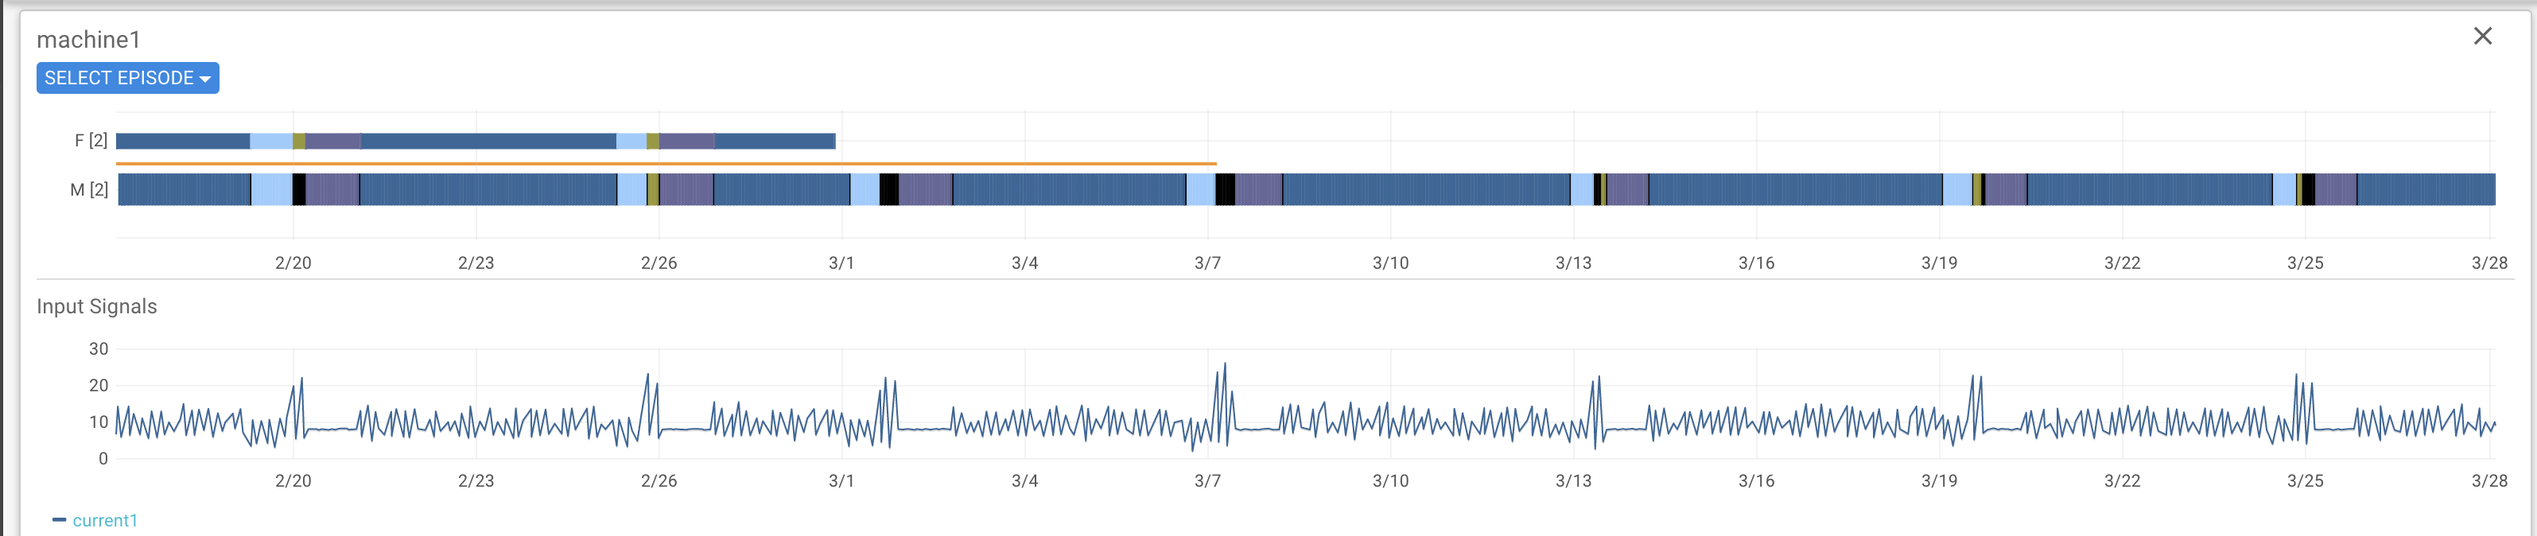
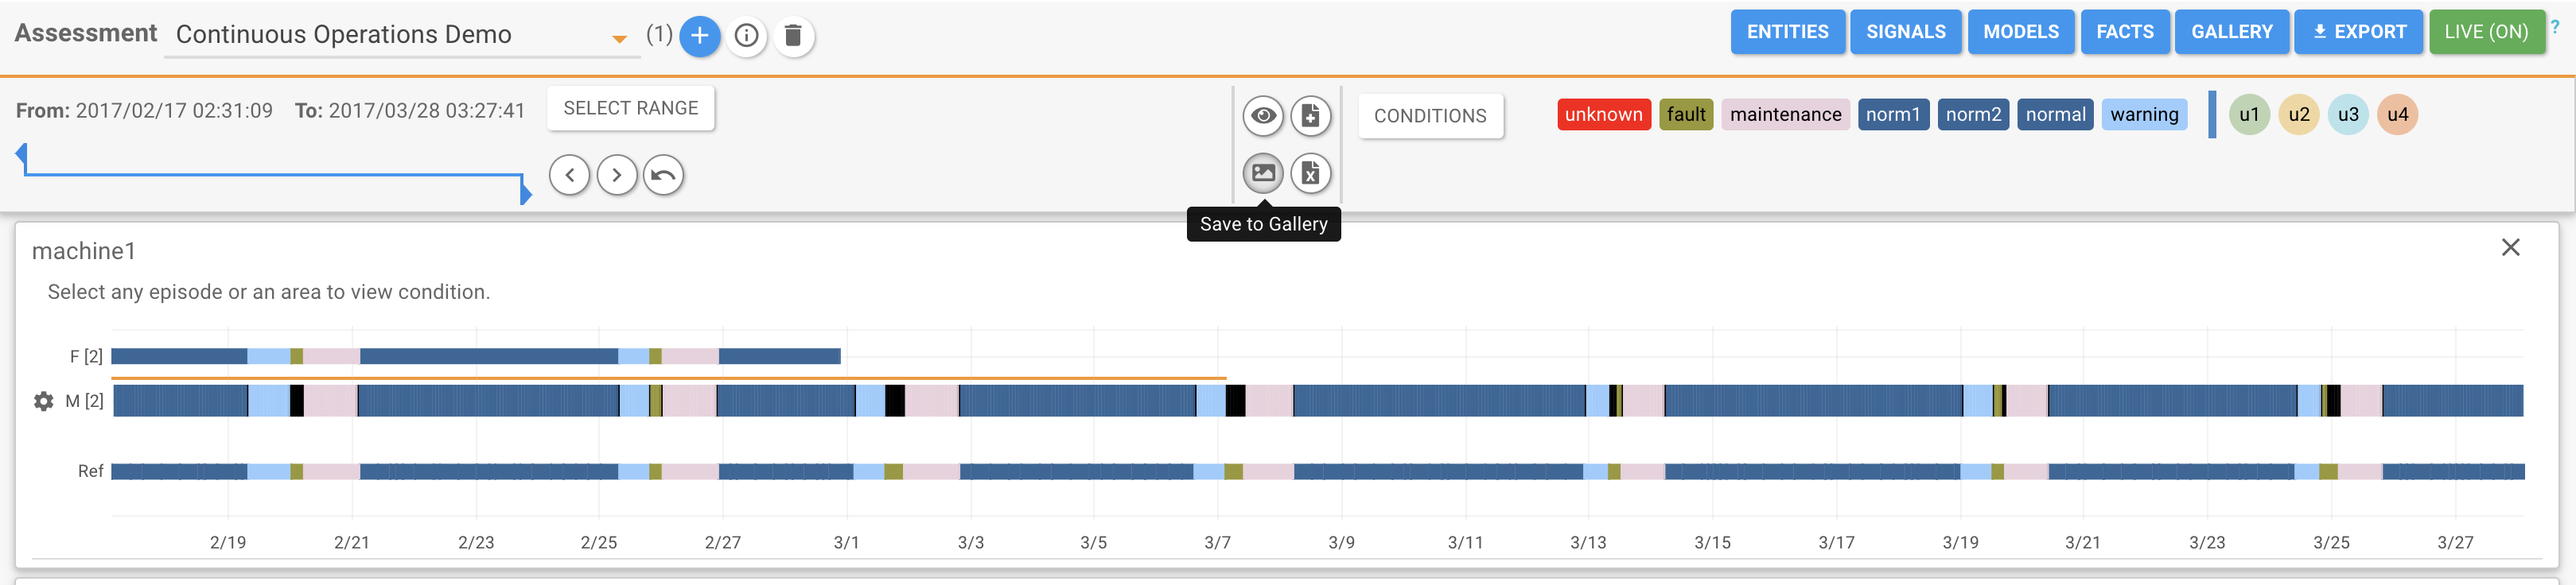
Release version 1.37.5

diff --git a/docs/using/datastreams/index.rst b/docs/using/datastreams/index.rst
@@ -35,6 +35,8 @@ Selecting the **Model** button opens the Model drawer. Models can be created and
 
 From here you can click the 'New Model' button to start Model creation.
 
+.. _modellearning:
+
 Model Learning
 ---------------
 
@@ -87,11 +89,27 @@ When set to **Minimum Generalization** the engine is restricted to what it sees 
 When set to **Maximum Generalization** the engine only looks at the general shape of the time series. It is less sensitive to temporal shift or even small number of peaks and troughs in the general pattern. With this approach, one can achieve higher TPR. However, the FPR might be high as well.
 
 As the final step, the user may decide to create an **Unsupervised**, **Semi-supervised**, or **Fully-supervised** model. This can be achieved by adding **Facts**. Facts uploaded can be filtered based on *Entities*, prior *Models*, *Keywords* associated with facts, *Conditions* and *Time range*.
+gallery
 
 .. image:: images/createmodel4.png
 
-Upon completion of facts selection, clicking the *Start* button should start the model creation process.
+Upon completion of facts selection, clicking the *NEXT* button should bring the user to the final step of the model creation which is selecting entities and time range on which to apply the model. 
+This allows a user to have the model applied to a user specified range (may include validation range outside of model learning range) immediately after model creation. A user can always go back and trigger model apply on a different time range at a later point in time. 
 
+.. image:: images/createmodel5.png
+
+At this point Falkonry has received the following guidance to start building the model:
+
+  - Learning Time Range
+  - List of Entities for Learning
+  - List of Signals for Learning
+  - List of Facts for Learning
+  - Model Configuration Settings
+  - Model Apply Time Range and Entities
+
+To start the model creation process, hit **START**.
+
+.. _factfilters:
 
 Adding Facts & Using Facts When Learning a Model
 ~~~~~~~~~~~~~~~~~~~~~~~~~~~~~~~~~~~~~~~~~~~~~~~~
@@ -112,7 +130,6 @@ Opening the facts drawer for a new Assessment should present a drawer with no av
 
 A CSV/JSON file (see :doc:`facts`) can either be selected from or simply dropped into the "Select or Drop CSV or JSON file ...". A window asking the user to select specific identifiers for Start time, End time, Batch Identifier (for Batch datastreams only), Entity, Value and Keywords (optional) should present itself before the facts can be populated within Falkonry LRS.
 
-.. _fact_filters_label:
 .. image:: images/facts2.png
 
 Once facts are available in this drawer, specific filters can be applied to narrow down the set of facts of interest. These settings can be saved as a **Filter View** by clicking on **Add new fact filter** in the **Filters** dropdown.
@@ -187,7 +204,7 @@ The timeline view consists of several cards, each associated with a particular *
 - M[n] displays the assessment output based on Model "n"
 - F[n] displays the facts used for creation of model M[n]
 - Each signal (selected for display from Signals panel) associated with the Entity
-- Fact filters created in (:ref:`fact_filters_label <Fact Filters>`)
+- Fact snapshots created using **Fact Filters**, see :ref:`factfilters`
 - Model training ranges (displayed as a red line between M[n] and F[n])
 
 .. image:: images/timeline1.png
@@ -204,6 +221,36 @@ Zooming in into this segment will resolve the clustered display of conditions as
 
 .. image:: images/timeline4.png
 
+
+
+Selecting Episodes
+-------------------
+
+Once assessment results are available on the timeline view, a user may want to select specific episodes/ segments by clicking and dragging the mouse over of the assessment output:
+  1. Zooming in to evaluate and observe specific events with more granularity
+  2. Adding facts over specifc time ranges
+  3. Deleting facts over specific time ranges
+  4. Adding episodes to the Episode Gallery for further inspection and analysis of assessment results (more on this :ref:`explanations`)
+
+.. image:: images/episode_selector.png 
+
+A user can select to be in one of 4 modes to be able to select segments for performing the above tasks. The default selection is for being able to view, pan and zoom into the assessment output.
+
+An example of adding episodes to the Episode Gallery is discussed (:ref:`explanations`)
+
+To walk through an example of adding Facts on the timeline view, simply select the button "Add a fact" to choose to be in Fact addition mode.
+
+.. image:: images/fact_episode_selector.png 
+
+Next, click and drag the mouse pointer over the time range segment of interest on the assessment output to highligh the segment. A dialog box presents itself. Add the condition wanrning and give it a Keyword (optional) to help you tag or identify this fact.
+.. image:: images/add_fact.png 
+
+Here, we are trying to confirm a segment to be of condition type "warning". When you create a new fact view/ snapshot with the Keyword specified when creating the fact, the manually added fact is presented as shown.
+
+.. image:: images/fact_added.png 
+
+
+.. _selectingtimerange:
 
 Selecting time ranges on timeline view 
 -----------------------------------------
@@ -224,7 +271,31 @@ Upon confirming the new time range, the user now also have the option to reset t
 .. image:: images/time3.png
 
 
+Selecting time ranges and entities for model apply
+----------------------------------------------------
 
+Section (:ref:`modellearning`) discusses how the model can be applied for a specific set of entities across a given time range during model creation time.
+
+Any model can be applied across a previously selected time range (:ref:`selectingtimerange`) on any set of entities post model creation.
+
+In the image below, a gear icon in "orange" color .. image:: images/orange_gear.png suggests that the assessment output for model M[8] does not exist while the dark gray gear icon .. image:: images/gray_gear.png suggests that the assessment output for model M[3] exists as displayed in the corresponding swim lane.
+To generate assessment output for M[8] or to apply the model for the given time range for entity *machine 1* the user can click on the orange gear **Apply model** icon. 
+
+.. image:: images/model_apply1.png
+
+On clicking the gear icon a form (as shown below) the user is asked to confirm if he / she would like to apply model **M[8]** for given time range (range selected on timeline view) on **machine 1** for 
+Clicking on **Apply** initiates the model apply process.
+
+.. image:: images/model_apply2.png
+
+If the user would rather initiate model apply on some combinations of models and entities, selecting the *Show More* option should reveal a list of models and entities. Checking the boxes for some selection of models and entities allows the user to quickly apply these models on the selected entities for the time range displayed on the window.
+Note: This selection is a cross-product of models and entities each producing an assessment output on the timeline view.
+
+.. image:: images/model_apply3.png
+
+Once the model apply completes, the corresponding assessment output is displayed on the timeline view and the gear icon changes to dark gray.
+
+Initiating model apply from a dark gray gear icon (model apply exists) simply checks to see if new data exists for the given time range and accordingly recomputes the assessment output. Else it simply retains the current assessment.  
 
 Inspecting and analyzing assessment episodes
 =============================================
@@ -239,22 +310,19 @@ Specific episodes or segments of the assessment may be selected to be posted int
 - Signal window sizes overlaid on top of the signal plot (in case of Sliding windows)
 - In case of Batch windows, the entire batch segment is selected for display determined by the size of the fixed/ batch window
 - Batch identifier of the selected batch for Batch datastreams
-- Understanding correlations between assessment outcome and the input signals (more on this (:ref:`explanations_label <Explanation Scores>`))
+- Understanding correlations between assessment outcome and the input signals (more on this :ref:`explanations`)
 
 
+.. _explanations:
 
 Episode Gallery
 ----------------
 
-.. explanations_label:
-
-An assessment episode can be selected from the timeline view by clicking on the **Select Episode** button that is activated upon hovering the mouse over each card on the timeline view
+An assessment episode can be selected from the timeline view by selecting to be in the **Select Episode** mode by clicking on the "Save to Gallery" button as shown on the timeline view
 
 .. image:: images/gallery1.png
 
-Select on the **Save to Gallery** and select a segment from the timeline view by dragging the mouse over the timeline
-
-.. image:: images/gallery2.png
+Select a segment from the timeline view by dragging the mouse over the timeline
 
 In the dialog box that opens up, add a description (optional) and select an **Episode View** to save the segment into. An Episode View is a gallery of selected episodes that a user may have collected for simultaneous investigation.
 Multiple episode views can be created by each user.

diff --git a/docs/account/index.rst b/docs/account/index.rst
@@ -82,6 +82,25 @@ If your Falkonry invited email is linked with LinkedIn profile then you can use 
 .. _password_reset:
 
 
+Falkonry User roles 
+----------------------
+
+    +-----------------+--------------------------------------------------------------------------------------------------------------------------------------------------------------+
+    |  **Role**       |    **Description**                                                                                                                                           |
+    +-----------------+--------------------------------------------------------------------------------------------------------------------------------------------------------------+
+    |  View           |    With ‘View’ user role the user can perform view only operations in Falkonry LRS.                                                                          |
+    |                 |    This role is very useful for people within organizations who just want to view and inspect Model and output generated by in house Falkonry LRS experts.   |
+    |                 |    The user will not be able to perform any Falkonry LRS operations that create/update/delete data or models.                                                |
+    +-----------------+--------------------------------------------------------------------------------------------------------------------------------------------------------------+
+    |  User           |    User role includes all of ‘View’ role capabilities.                                                                                                       |
+    |                 |    In addition, User role will be able to perform all activities related to datastream and models including generating authentication tokens required        |
+    |                 |    for API integration. User role will not be able to any administration activities such as inviting other users, resetting other user's passwords           |
+    |                 |    or changing user roles.                                                                                                                                   |
+    +-----------------+--------------------------------------------------------------------------------------------------------------------------------------------------------------+   
+    |  Admin          |    Admin role includes all of ‘User’ role capabilities.  In addition, Admin role will be able to invite new users into the Falkonry LRS account, change      |
+    |                 |    roles of existing users, reset users’ passwords, or deactivate users.                                                                                     |
+    +-----------------+--------------------------------------------------------------------------------------------------------------------------------------------------------------+
+
 Resetting Falkonry User password 
 ---------------------------------
 
